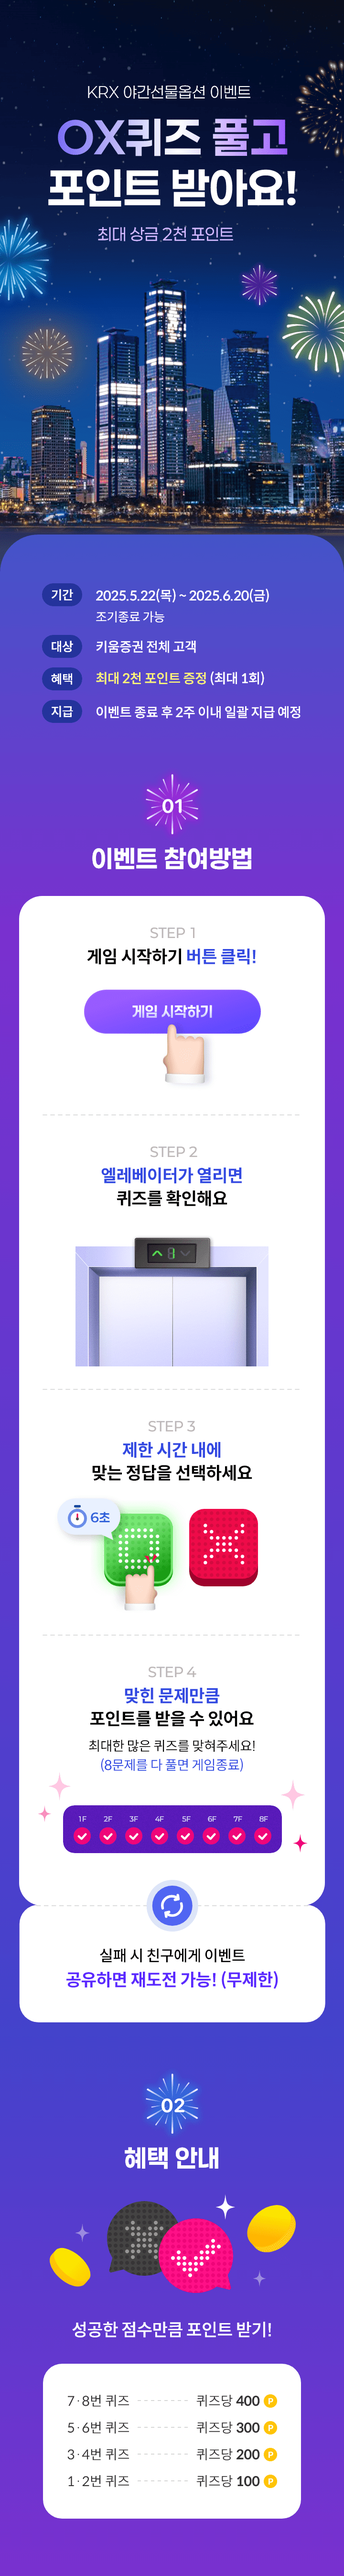
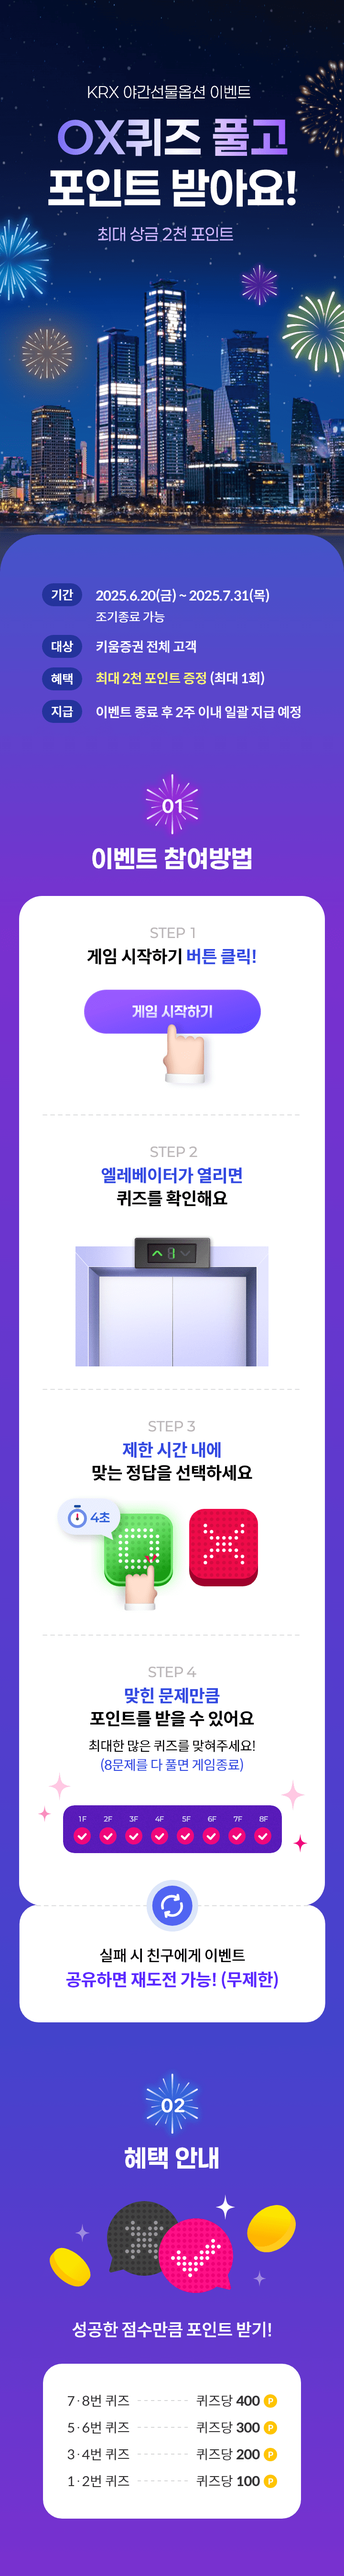
퀴즈이벤트 : 수정

diff --git a/quiz_event/src/html/game.html b/quiz_event/src/html/game.html
@@ -117,7 +117,7 @@
         let count = 0;
         let point = 0;
         let percent = 0;
-        let time = 6;
+        let time = 4;
         let timeoutCheck = "";
         const quiz1 = [
             [true, 100, "밤에도 거래가 가능하다."],
@@ -158,7 +158,7 @@
         }, 1000);
         function start() {
             percent = 0;
-            time = 6;
+            time = 4;
             count++;
             $(".outside").show();
             $(".inside").hide();
@@ -169,7 +169,7 @@
             $(".floor").addClass("floor" + count);
             $(".quiz_step").addClass("quiz_step" + count);
             $(".pie").css("background", "conic-gradient(#799fd6 0 0, #333a4b 0 0)");
-            $(".time").text("6초");
+            $(".time").text("4초");
             setTimeout(() => {
                 $(".outside").hide();
                 $(".inside").show();
@@ -215,7 +215,7 @@
                 const pieInterval = setInterval(() => {
                     $(".pie").css("background", "conic-gradient(#799fd6 0 " + percent + "%, #333a4b " + percent + "% 100%)");
                     percent++ >= 100 && clearInterval(pieInterval);
-                }, 60);
+                }, 40);
                 const quizInterval = setInterval(() => {
                     time--;
                     if (time < 0) {

diff --git a/quiz_event/src/html/event.html b/quiz_event/src/html/event.html
@@ -67,7 +67,7 @@
             </dl>
             <div class="footer">
                 <div class="logo"><img src="../assets/images/logo_footer.png" alt="키움증권"></div>
-                <p>키움증권 준법감시인 심사필 제 2025-00923호<br>(2025.5.22~2025.6.20)</p>
+                <p>키움증권 준법감시인 심사필 제25-00976호<br>(2025.06.09~2026.06.08)</p>
             </div>
         </div>
         <div class="btn_wrap"><button type="button" onclick="popup.open('popup_event');"><img src="../assets/images/btn_event.png" alt="이벤트 참여하기"></button></div>
